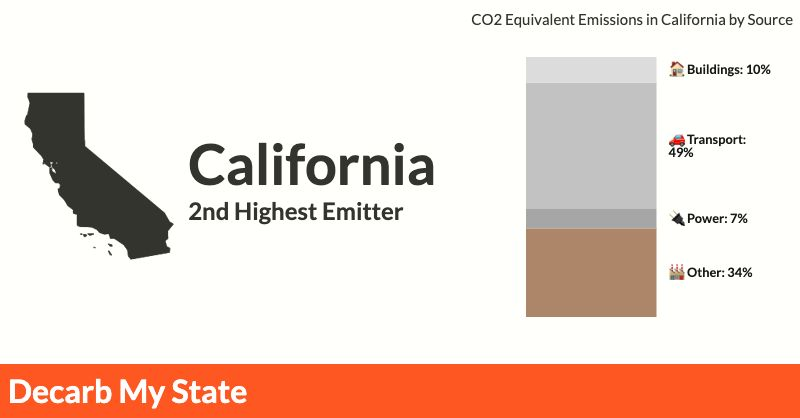
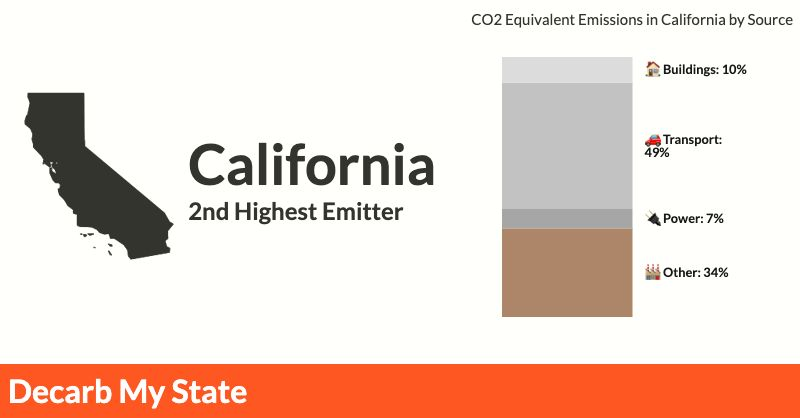
Took screenshots of all social cards and set as meta image for the state-detail pages

Changed region(s): [[0.7812, 0.1244, 0.9688, 0.7775], [0.625, 0.1244, 0.6562, 0.7775]]

diff --git a/gatsby-node.js b/gatsby-node.js
@@ -3,10 +3,11 @@ const path = require("path")
 const puppeteer = require('puppeteer')
 const fs = require('fs')
  
-exports.createPages = async ({ graphql, actions, reporter }) => {
+exports.createPages = async ({ graphql, actions, reporter, location }) => {
  const { createPage } = actions
 
  var namesForSocialCardImage = []
+ var waitingForReady = true
  
  const placeNames = [
    "alabama",
@@ -65,6 +66,7 @@ exports.createPages = async ({ graphql, actions, reporter }) => {
  const StateDetailsTemplate = path.resolve(`src/components/state-details.js`)
  
  async function captureScreenshot(name) {
+  waitingForReady = false;
    // if screenshots directory is not exist then create one
    if (!fs.existsSync("screenshots")) {
      fs.mkdirSync("screenshots");
@@ -73,32 +75,25 @@ exports.createPages = async ({ graphql, actions, reporter }) => {
     try {
      // launch headless Chromium browser
      browser = await puppeteer.launch({headless: false});
-     console.log('launched puppteer')
       // create new page object
      const page = await browser.newPage();
-     console.log('new page')
       // set viewport width and height
      await page.setViewport({ width: 800, height: 418 });
-     console.log('set viewport')
      //no timeout time
      await page.setDefaultNavigationTimeout(0);
 
-     setTimeout(async function() {
-      await page.goto("http://localhost:8000/social-card?state="+name, {waitUntil: "load"});
+      await page.goto("http://localhost:8000/social-card?state="+name, {waitUntil: "networkidle2"});
 
       console.log('go to link')
         // capture screenshot and store it into screenshots directory.
        await page.screenshot({ path: 'screenshots/'+name+'.jpeg' });
        console.log('took screenshot')
        await browser.close();
-
-     }, 3000)
+      waitingForReady = true;
 
      
    } catch (err) {
      console.log(`❌ Error: ${err.message}`);
-   } finally {
-     console.log(`\n🎉 GitHub profile screenshots captured.`);
    }
  }
  
@@ -115,10 +110,13 @@ exports.createPages = async ({ graphql, actions, reporter }) => {
    namesForSocialCardImage.push(name)
  })
 
- for (const name of namesForSocialCardImage)
- {
-   await captureScreenshot(name);
- }
+ setTimeout(async function() {
+  for (const name of namesForSocialCardImage)
+  {
+    while(!waitingForReady){}
+    await captureScreenshot(name);
+  }
+ }, 3000)
 }
  
 

diff --git a/src/pages/social-card.js b/src/pages/social-card.js
@@ -31,6 +31,7 @@ const SocialCardPage = ({location, data}) => {
   {
     emissionsData = data.allEmissionsJson.edges
       .find(entry => entry.node.state === 'illinois')
+      currentState = 'illinois'
   }
 
   //used for ranking the states
@@ -80,7 +81,6 @@ const SocialCardPage = ({location, data}) => {
   {
     statePosInArr = eachStateRecentEmissions
       .find(entry => entry[0]==='illinois')
-    currentState = 'illinois'
   }
 
   //alter what the suffix of the number is
@@ -103,6 +103,13 @@ const SocialCardPage = ({location, data}) => {
 
   let nodeData = emissionsData.node.emissionsByYear
 
+  var stateNameSize = 3.5
+  if(currentState === 'tennessee' || currentState === 'pennsylvania'
+   || currentState === 'washington' || currentState === 'oklahoma')
+  {
+        stateNameSize = 2.5
+  }
+
   return(
     <div className='social-card d-flex flex-column'>
       <SEO title="Social Card" />
@@ -121,7 +128,7 @@ const SocialCardPage = ({location, data}) => {
           <div>
             <h3 id="main" className= "d-flex align-items-center mr-4 mt-0 mb-0" >
               <span className="title font-weight-bold h4 mb-0"
-                style={{fontSize:3.5+'rem'}}
+                style={{fontSize:stateNameSize+'rem'}}
               >{placeTitle}</span>
             </h3>
 
@@ -135,7 +142,7 @@ const SocialCardPage = ({location, data}) => {
             className="text-right pt-2"
             style={{fontSize:'15px'}}
           >CO2 Equivalent Emissions in {placeTitle} by Source</p>
-          <div className="justify-content-end ml-5 pl-5"            >
+          <div className="justify-content-end ml-5 pl-4"            >
 
             <SingleBarChart
               emissionsData={nodeData[emissionsData.node.emissionsByYear.length-1]}

diff --git a/src/components/state-details.js b/src/components/state-details.js
@@ -289,6 +289,8 @@ export default function StateDetailsPage ({ location, data }) {
         description={descriptionText}
       />
 
+      <meta name="image" content={"/screenshots/"+placeTitle+".jpeg"}/>
+
       <div className="sticky-header d-flex align-items-center">
         <h1 id="main" className="d-flex align-items-center mr-4 mt-0 mb-0">
           <span
